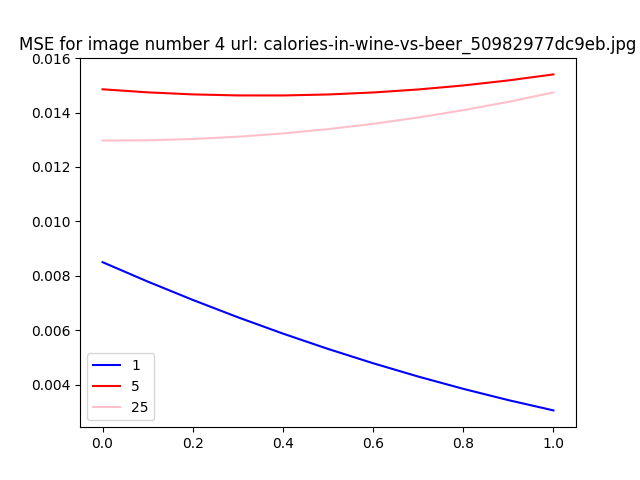
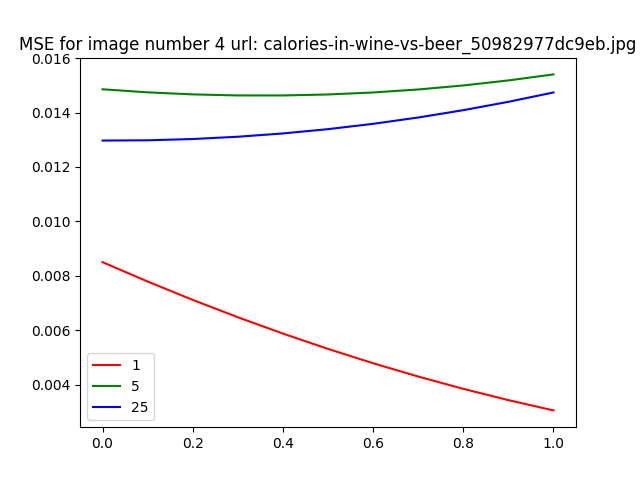
newly generated results

diff --git a/minimize_divergence.py b/minimize_divergence.py
@@ -49,8 +49,8 @@ def divergence(text, image, human, alpha):
     for cat in categories:
         x.append(pred[cat])
         y.append(human[cat])
-    ent = entropy(y,x, base=2)
-    return np.sum(ent)
+    return entropy(y,x, base=2)
+    #return np.sum(ent)
 
 def mse(text, image, human, alpha):
     pred = {cat: alpha*text[cat] + (1-alpha)*image[cat] for cat in categories}
@@ -69,24 +69,23 @@ def get_human(num_seconds):
     data = json.load(open(HUMAN_PATH))
     relevant = [entry for entry in data
                 if entry['n_seconds'] == num_seconds and entry['tag'] == 'valid']
+    counts = {image_id: 0 for image_id in range(NUM_IMAGES)}
     
     humans = {image_id: {int(cat):0 for cat in categories} for image_id in range(NUM_IMAGES)}
     for entry in relevant:
         id_ = int(entry['im_id'])
         total = sum([float(x) for x in entry['answers'].values() if len(x)>0 and len(x)<=2])
-        try:
-            if total > 0:
-                for category, weight in entry['answers'].items():
-                    p = 0
-                    if len(weight) > 0:
-                        p = float(weight)/total*10
-                    humans[id_][int(category)] += p
-        except ValueError:
-            print(entry['answers'].values())
-            continue
+        if total > 0:
+            counts[id_] +=1
+            for category, weight in entry['answers'].items():
+                p = 0
+                if len(weight) > 0:
+                    p = float(weight)/total*10
+                humans[id_][int(category)] += p
     for im, dist in humans.items():
         humans[im] = Dist(dist)
         humans[im].renormalize()
+    print(f'for {num_seconds} seconds we have the following counts: {counts}')
     return humans
 
 
@@ -168,22 +167,22 @@ for im in range(NUM_IMAGES):
     plt.close()
 
     plt.title(f'MSE for image number {im} url: {id_to_url[str(im)]}')
-    plt.plot(alpha_values, alphas_i_mse[im][1], label='1', color='blue')
-    plt.plot(alpha_values, alphas_i_mse[im][5], label='5', color='red')
-    plt.plot(alpha_values, alphas_i_mse[im][25], label='25', color='pink')
+    plt.plot(alpha_values, alphas_i_mse[im][1], label='1', color='red')
+    plt.plot(alpha_values, alphas_i_mse[im][5], label='5', color='green')
+    plt.plot(alpha_values, alphas_i_mse[im][25], label='25', color='blue')
     plt.legend()
     plt.plot()
     plt.savefig(f'results/mse_im{im}.png')
     plt.close()
 
-    plt.title(f'Divergence for image number {im} url: {id_to_url[str(im)]}')
-    plt.plot(alpha_values, alphas_i_div[im][1], label='1', color='blue')
-    plt.plot(alpha_values, alphas_i_div[im][5], label='5', color='red')
-    plt.plot(alpha_values, alphas_i_div[im][25], label='25', color='pink')
-    plt.legend()
-    plt.plot()
-    plt.savefig(f'results/divergence_im{im}.png')
-    plt.close()
+    # plt.title(f'Divergence for image number {im} url: {id_to_url[str(im)]}')
+    # plt.plot(alpha_values, alphas_i_div[im][1], label='1', color='blue')
+    # plt.plot(alpha_values, alphas_i_div[im][5], label='5', color='red')
+    # plt.plot(alpha_values, alphas_i_div[im][25], label='25', color='pink')
+    # plt.legend()
+    # plt.plot()
+    # plt.savefig(f'results/divergence_im{im}.png')
+    # plt.close()
     
 
 # opt_alphas_div = {time: get_alpha(text_dist, image_dist, human[time], divergence).x
@@ -194,8 +193,8 @@ colors = ['red', 'green', 'orange', 'blue', 'gray', 'purple']
 for j, i in enumerate(INTERVALS):
     # print(f'{opt_alphas_div[i]} is optimal for {i} seconds with divergence loss')
     print(f'{opt_alphas_mse[i]} is optimal for {i} seconds with mse loss')
-    plt.plot(alpha_values, alphas_div[i], label='1 div', color=colors[j])
-    plt.plot(alpha_values, alphas_mse[i], label='1 mse', color=colors[-j-1])
+    plt.plot(alpha_values, alphas_div[i], label=f'{i} div', color=colors[j])
+    plt.plot(alpha_values, alphas_mse[i], label=f'{i} mse', color=colors[-j-1])
 plt.legend()
 plt.plot()
 plt.savefig(f'results/loss_all_images_averaged.png')
